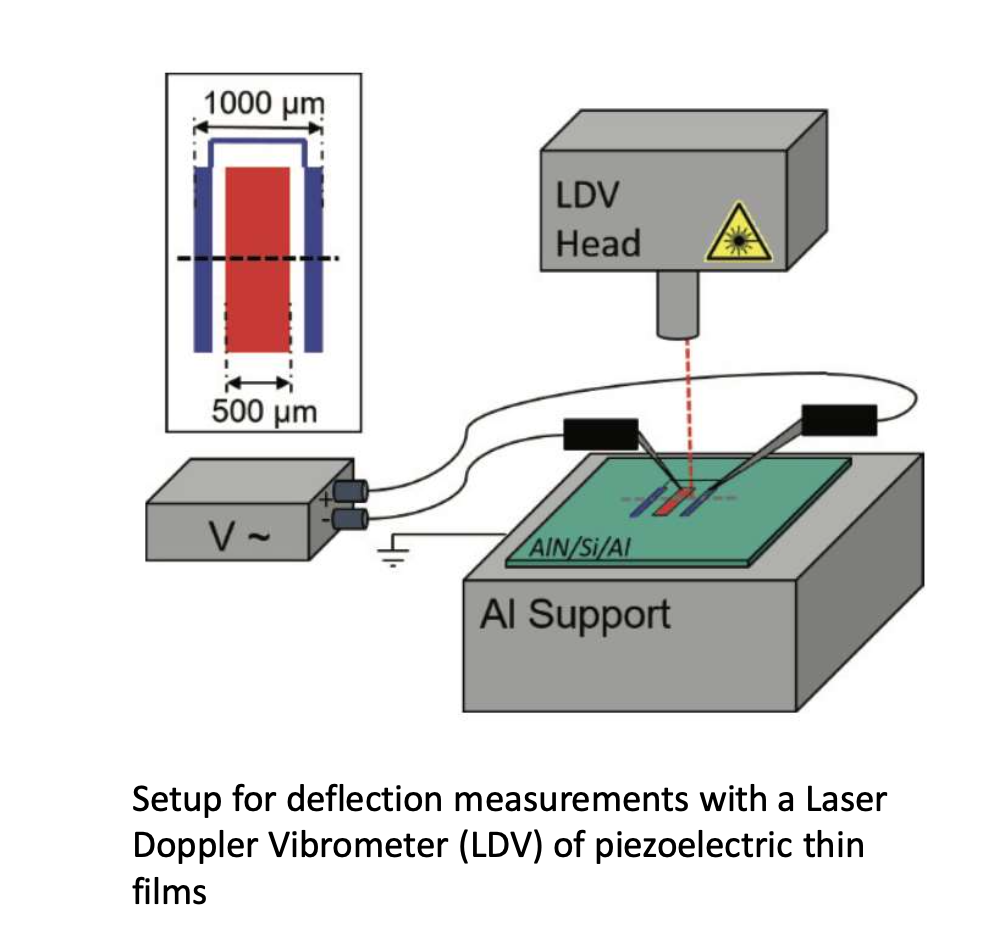
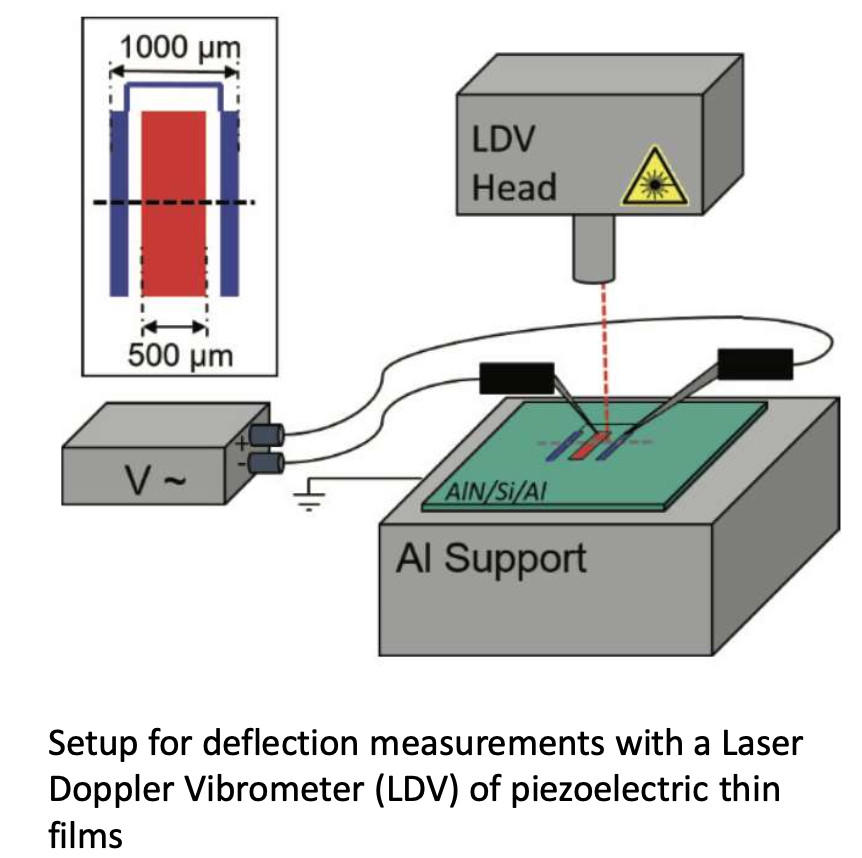
Describe your changes

Changed region(s): [[0.0603, 0.0, 0.9954, 0.7879], [0.0603, 0.8182, 0.935, 1.0]]

diff --git a/app/page.jsx b/app/page.jsx
@@ -240,7 +240,7 @@ const PROJECT_DETAILS = {
         title: "Mechanochemical Synthesis",
         text:
           "Synthesized PZT ceramics using high-energy planetary ball milling of the constituent oxide powders. Milling duration and subsequent calcination conditions were investigated to develop a route toward phase-pure PZT.",
-        image: "/images/project3-milling.jpeg",
+        image: "/images/ball.png",
         imageAlt: "Planetary ball milling used for PZT synthesis",
       },
 
@@ -248,7 +248,7 @@ const PROJECT_DETAILS = {
         title: "Phase Formation",
         text:
           "X-ray diffraction was used to monitor phase evolution during milling. The PZT perovskite phase was observed to form within approximately two hours of milling, demonstrating the effectiveness of the mechanochemical synthesis route.",
-        image: "/images/XRD.jpeg",
+        image: "/images/pellet.png",
         imageAlt: "XRD analysis showing PZT phase formation",
       },
 
@@ -256,7 +256,7 @@ const PROJECT_DETAILS = {
         title: "Microstructural Evolution",
         text:
           "Scanning electron microscopy was used to examine the microstructural evolution of the synthesized ceramics as a function of processing conditions. Changes in morphology, densification, and porosity were correlated with milling duration.",
-        image: "/images/project3-sem.jpeg",
+        image: "/images/sem.png",
         imageAlt: "SEM microstructure of PZT ceramics",
       },
 
@@ -264,7 +264,7 @@ const PROJECT_DETAILS = {
         title: "First-Principles Analysis",
         text:
           "Density functional theory calculations were performed using DMol³ in Materials Studio to investigate the electronic structure of PZT. Band-structure and density-of-states calculations were used to analyze its electronic behavior.",
-        image: "/images/project3-dft.jpeg",
+        image: "/images/dft.png",
         imageAlt: "DFT band structure and density of states of PZT",
       },
     ],
